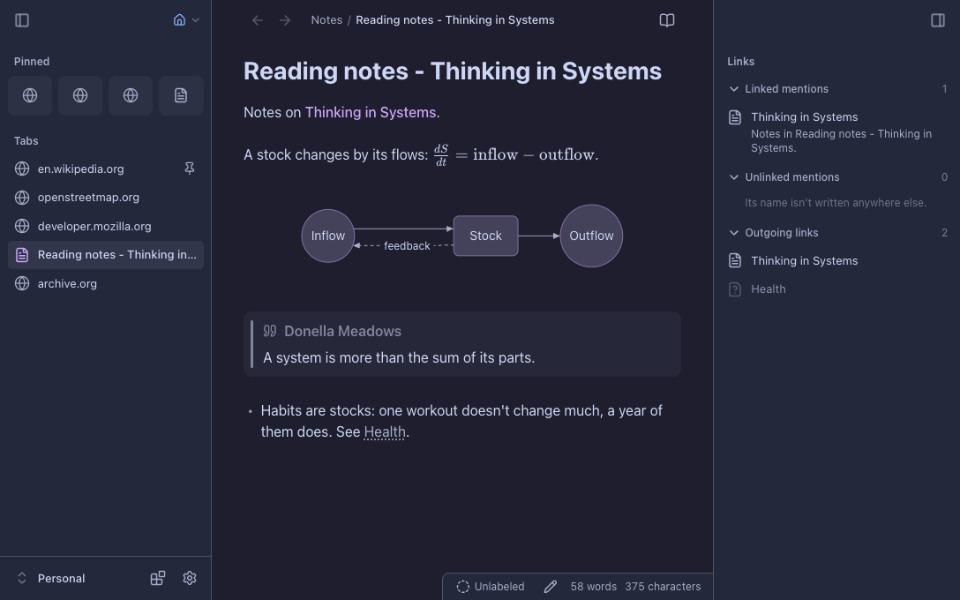
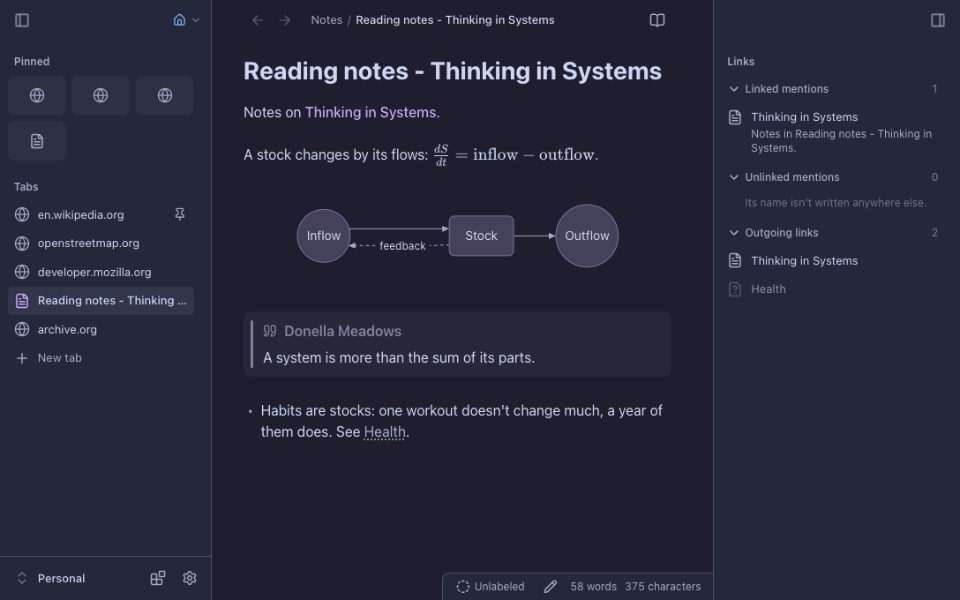
feat(tabs): a new tab row ends the tab list

diff --git a/web/src/components/Sidebar.tsx b/web/src/components/Sidebar.tsx
@@ -108,7 +108,7 @@ export function SidebarPanels({ head, side = "left", ...ctx }: SidebarCtx & { he
     // One rhythm for every panel, whatever it draws: 1 unit under each (folded or not) and its heading's 2 above, so 3
     // units between any two panels; and the last one ends 2 units above the vault's bar.
     <SidebarSide.Provider value={side}>
-    <div ref={box} data-sidebar-body={side} data-scroll={own ? "panels" : "sidebar"}
+    <div ref={box} data-sidebar-body={side} data-scroll={own ? "panels" : "sidebar"} onDoubleClick={(e) => { const key = emptyRoomOf(e.target, box.current); panels.find((p) => p.key === key)?.panel.emptyDoubleClick?.() }}
       className={cn("relative flex min-h-0 flex-1 flex-col pb-1", own ? "overflow-x-hidden overflow-y-auto [scrollbar-width:thin]" : "overflow-y-auto overscroll-contain [scrollbar-width:thin]",
         making && "[&>:not([data-slide])]:invisible")}>
       {panels.length ? panels.map((p, i) => {
@@ -166,6 +166,14 @@ export function SidebarPanels({ head, side = "left", ...ctx }: SidebarCtx & { he
     </div>
     </SidebarSide.Provider>
   )
+}
+
+/** The open panel whose empty room `at` is (its key): its box's under what it draws, or the sidebar's under the last. */
+function emptyRoomOf(at: EventTarget, body: HTMLElement | null) {
+  if (!(at instanceof HTMLElement) || !body) return undefined
+  const el = at === body ? [...body.querySelectorAll<HTMLElement>(":scope > [data-panel]")].at(-1)
+    : at.matches("[data-panel], [data-panel-scroll]") ? at.closest<HTMLElement>("[data-panel]") : null
+  return el && !el.dataset.collapsed ? el.dataset.panel : undefined
 }
 
 /** A sidebar's toggle: click opens or folds it; a panel dropped on it goes to that sidebar,
@@ -394,7 +402,7 @@ export function SidebarTile({ icon: Icon, iconClassName, tint, badge, label, act
  *  `pl-1.5`, so its icon lines up with theirs. */
 export function SidebarSearch({ open }: SidebarCtx) {
   const side = useContext(SidebarSide)
-  const keys = useCommandKeys("switcher:open", true), first = firstKeys("switcher:open")
+  const keys = useCommandKeys("switcher:open", true)
   return (
     // The panel is this one control, so it's its own handle: drag it to move the panel, click it to search.
     <button type="button" data-sidebar-search data-panel-handle={open ? "" : undefined} data-heading="Search" onClick={() => runCommandById("switcher:open")} data-tip={open ? undefined : `Search${keys}`} data-tip-side={side === "right" ? "left" : "right"} aria-label="Search"
@@ -405,13 +413,23 @@ export function SidebarSearch({ open }: SidebarCtx) {
       <Search className="size-4 shrink-0" strokeWidth={2.25} />
       {/* In the rail only the icon: the label and keycaps would make the rail wider than itself (a scrollbar). */}
       {open && <span className="flex-1 text-left">Search</span>}
-      {/* Shortcut keycaps, only on hover or keyboard focus. */}
-      {open && first && <span aria-hidden className="flex gap-1 opacity-0 transition-opacity duration-150 group-hover:opacity-100 group-focus-visible:opacity-100">
-        {keyCaps(first).map((k, i) => (
-          <kbd key={i} className="grid h-5 min-w-5 place-items-center rounded-[4px] border-[0.5px] border-border bg-foreground/[0.06] px-1 font-keys text-[11px] leading-none text-muted-foreground">{k}</kbd>
-        ))}
-      </span>}
+      {open && <RowKeys id="switcher:open" className="group-hover:opacity-100 group-focus-visible:opacity-100" />}
     </button>
+  )
+}
+
+/** A command's keycaps at a sidebar row's end, shown on hover or keyboard focus (`className` says the row's group):
+ *  the search field's ⌘O, the Tabs panel's ⌘T. Nothing while the command has no keys here. */
+export function RowKeys({ id, className }: { id: string; className?: string }) {
+  useCommandKeys(id)
+  const first = firstKeys(id)
+  if (!first) return null
+  return (
+    <span aria-hidden className={cn("flex shrink-0 gap-1 opacity-0 transition-opacity duration-150", className)}>
+      {keyCaps(first).map((k, i) => (
+        <kbd key={i} className="grid h-5 min-w-5 place-items-center rounded-[4px] border-[0.5px] border-border bg-foreground/[0.06] px-1 font-keys text-[11px] leading-none text-muted-foreground">{k}</kbd>
+      ))}
+    </span>
   )
 }
 

diff --git a/web/src/core/workspace.ts b/web/src/core/workspace.ts
@@ -221,6 +221,16 @@ function switchTo(gid: string, t: Tab, from?: string) {
   set(isBlank(cur) && cur.id !== t.id ? { ...ws, root: dropBlank(ws.root, cur.id, isDesktop()) } : ws)
 }
 
+/** Where the tabs made now go in their pane: beside the active tab, or at its end (`newTabsAt`). */
+let placing: "end" | undefined
+/** Runs `fn` with the tabs it makes in a pane put at its end, in no tab group, instead of beside the active tab: the
+ *  Tabs panel's New tab row, whose place the new tab takes. */
+export function newTabsAt<T>(at: "end" | undefined, fn: () => T): T {
+  const was = placing
+  placing = at
+  try { return fn() } finally { placing = was }
+}
+
 /** Go somewhere: an open tab that has it, else the current tab when it shows the same sort of thing (or nothing), else a
  *  new tab beside it, so a person opened from People opens beside it and Back returns there. Blank tabs are never kept. */
 export function go(to: string, newTab = false, push = true) {
@@ -232,7 +242,7 @@ export function go(to: string, newTab = false, push = true) {
   // entry would lose that place, and Back would skip it).
   if (open && (!newTab || isBlank(cur))) { switchTo(open.g.id, open.t, open.t.id === cur.id ? undefined : from); return show(to, push && !isDesktop() && open.t.id !== cur.id && !isBlank(cur)) }
   // Opened by another tab (its opener): beside that one, in its pane and its tab group, as a browser opens a link.
-  const by = isBlank(cur) ? null : besideOf(to)
+  const by = isBlank(cur) || placing ? null : besideOf(to)
   const at = by && by !== cur.to ? findOpen(by) : null
   if (at) {
     set(withGroup(at.g.id, (g) => withTabAfter(g, at.t.id, to), { focus: at.g.id }))
@@ -263,10 +273,10 @@ export function openBehind(to: string) {
 }
 
 /** A group with a new tab showing `to` right after tab `after`, active (`from`: the tab it was opened from, Tab.from),
- *  in `after`'s tab group, as a browser's link opened from a grouped tab is. */
+ *  in `after`'s tab group, as a browser's link opened from a grouped tab is (or at its end: `newTabsAt`). */
 function withTabAfter(g: Group, after: string, to: string, from?: string): Group {
-  const id = newId(), at = g.tabs.findIndex((t) => t.id === after) + 1
-  const set = g.tabs[at - 1]?.set
+  const id = newId(), at = placing === "end" ? g.tabs.length : g.tabs.findIndex((t) => t.id === after) + 1
+  const set = placing === "end" ? undefined : g.tabs[at - 1]?.set
   const tab: Tab = { id, to, ...(from ? { from } : {}), ...(set ? { set } : {}) }
   return { ...g, tabs: [...g.tabs.slice(0, at), tab, ...g.tabs.slice(at)], active: id }
 }
@@ -610,8 +620,8 @@ let toRename: string | null = null
 export function askRename(path: string) { toRename = path; dispatchEvent(new Event("vaultite:rename")) }
 export const takeRename = (path: string) => { if (toRename !== path) return false; toRename = null; return true }
 
-/** A new tab, in the focused group (or `gid`'s: its tab bar's +), next to the active one: a blank tab, one per pane
- *  (the blank tab it has already moves next to the active one instead; none, or the active one itself: nothing moves). */
+/** A new tab, in the focused group (or `gid`'s: its tab bar's +), next to the active one (or at the end: `newTabsAt`): a
+ *  blank tab, one per pane (the blank tab it has already moves there instead; the active one itself: nothing moves). */
 export function newTab(gid = state.focus) {
   // (asked for before the vault arrived, on a first visit's blank tab: it stays one, not filled with the home page)
   unsaved = false
@@ -619,7 +629,7 @@ export function newTab(gid = state.focus) {
     if (isBlank(shownTab(g))) return g
     const had = g.tabs.find(isBlank), blank = had ? inSet(had, undefined) : { id: newId(), to: "new" }
     const tabs = g.tabs.filter((t) => t.id !== blank.id)
-    const at = tabs.findIndex((t) => t.id === g.active) + 1
+    const at = placing === "end" ? tabs.length : tabs.findIndex((t) => t.id === g.active) + 1
     return { ...g, tabs: [...tabs.slice(0, at), blank, ...tabs.slice(at)], active: blank.id }
   }, { focus: gid }))
   show("new", true)

diff --git a/plugins/core/tabs/index.tsx b/plugins/core/tabs/index.tsx
@@ -2,7 +2,7 @@ import { useEffect, useId, useRef, useState } from "react"
 import { Archive, ChevronDown, Layers2, MonitorSmartphone, Pin, Plus, X } from "lucide-react"
 import {
   edgeScroller, canDropTab, closeTab, closeTabMoving, cn, colorVar, commandItems, definePlugin, DEVICE, dragTab, dropTab, fmtAgo, foldSetMoving, HeadingButton, isPopout, menuFor, openNewTab,
-  notifyError, openView, panesOf, pastEnd, put, rowMenu, selectClick, selectedAttr, selectTab, setMenu, setName, SetLabel, SidebarHeading,
+  notifyError, openView, panesOf, pastEnd, put, rowMenu, RowKeys, selectClick, selectedAttr, selectTab, setMenu, setName, SetLabel, SidebarHeading,
   SidebarRow, startDrag, tabMenuOf, tabPreview, tabPreviewOrder, TABS, tabSlot, tabsMenu, useDrag, useDropHit, useDropTarget, useGrowIn, useSelectable, useSelected, useSlide, useTabLabels, useTabLayout,
   INCOMING, setsAsDrawn,
   type DragItem, type SidebarCtx, type Store, type Tab, type TabDrop, type TabGroup, type TabInfo, type TabSet,
@@ -75,11 +75,11 @@ function SetRow({ s, n, rail, target }: { s: TabSet; n: number; rail?: Rail; tar
 }
 
 const LIST = "tabs:list"
-/** The last pane's box when (x, y) is just under its tabs, which a drop puts at its end. */
+/** The last pane's box when (x, y) is just under its tabs or on the New tab row, which a drop puts at its end. */
 function endOf(root: HTMLElement, x: number, y: number, el: Element | null) {
   const last = root.querySelector<HTMLElement>("[data-tabs-pane]:last-child")
   const row = last && [...last.querySelectorAll("[data-open-tab], [data-set-row]")].at(-1)
-  return row && pastEnd(root, row, x, y, el) ? last : null
+  return row && (el?.closest("[data-new-tab-row]") || pastEnd(root, row, x, y, el)) ? last : null
 }
 
 /** Every pane's tabs, in the panes' order, each tab group a row with its tabs under it; with more than one pane, each
@@ -225,15 +225,24 @@ function OtherDevices({ store }: { store: Store }) {
   )
 }
 
+/** The tabs' last row, as a browser's vertical tabs end: a new tab in the focused pane, at its end, so it takes this
+ *  row's place (⌘T opens one beside the active tab). */
+function NewTabRow() {
+  return (
+    <SidebarRow data-new-tab-row icon={Plus} label="New tab" open className="mt-px text-muted-foreground" onClick={() => openNewTab({ at: "end" })}>
+      <RowKeys id="tab:new" className="group-hover/row:opacity-100 group-focus-visible/row:opacity-100" />
+    </SidebarRow>
+  )
+}
+
 function TabsPanel({ store, open }: SidebarCtx) {
   if (!open) return null
   return (
     // (a right-click anywhere but a tab, a group or a device has the panel's menu: `menu`)
     <div className="flex shrink-0 flex-col" data-tabs-panel>
-      <SidebarHeading title="Tabs" open={open}>
-        <HeadingButton icon={Plus} label="New tab" onClick={() => openNewTab()} />
-      </SidebarHeading>
+      <SidebarHeading title="Tabs" open={open} />
       <TabRows store={store} />
+      <NewTabRow />
       <OtherDevices store={store} />
     </div>
   )
@@ -247,7 +256,7 @@ export default definePlugin({
   sidebar: {
     tabs: {
       title: "Tabs", names: ["tabs", "open tabs", "tab list", "vertical tabs"], heading: false, sort: 5, hidden: true, tabList: true,
-      view: "tabs", flyout: { icon: Layers2 }, render: (ctx) => <TabsPanel {...ctx} />,
+      view: "tabs", flyout: { icon: Layers2 }, render: (ctx) => <TabsPanel {...ctx} />, emptyDoubleClick: () => openNewTab({ at: "end" }),
       // (Show tabs on top, the way back to the tab bar, and other devices' tabs on or off)
       menu: () => [...commandItems("tab:sidebar"), othersItem(settings.get().other_devices !== false),
         { label: "Show all devices", icon: MonitorSmartphone, run: () => openView("devices", { newTab: true }) },

diff --git a/web/src/components/SearchPalette.tsx b/web/src/components/SearchPalette.tsx
@@ -5,7 +5,8 @@ import { Search, TextSearch } from "lucide-react"
 import { getStore, type Store } from "@/core/data"
 import { get } from "@/core/http"
 import { cleanName, createNamed, folderOf, openFile, openNew, openView, stem } from "@/core/files"
-import { currentFile } from "@/core/workspace"
+import { currentFile, newTabsAt } from "@/core/workspace"
+import { launcherAt, launcherClosed } from "@/core/launcher"
 import { newNoteFolder } from "@/core/conventions"
 import { snippet } from "@/core/links"
 import { openDetail } from "@/core/nav"
@@ -43,6 +44,9 @@ export function SearchPalette({ store, onClose, launcher = false }: { store: Sto
   launcher?: boolean }) {
   const docs = useSearchIndex(store)
   const { query: q, setQuery: setQ, select, picked } = useFinderQuery()
+  // (opened by the Tabs panel's New tab row: its picks go at the pane's end, where the row is)
+  const [at] = useState(() => (launcher ? launcherAt() : undefined))
+  useEffect(() => (launcher ? launcherClosed : undefined), [launcher])
   const { node, error } = useMemo(() => readQuery(q), [q])
   const plain = !node || isPlain(node)
   const opened = useRecentFiles()
@@ -94,10 +98,12 @@ export function SearchPalette({ store, onClose, launcher = false }: { store: Sto
     const newTab = launcher || mod
     picked()
     onClose()
-    if (h.run) setTimeout(() => h.run!(newTab), 0)
-    else if (h.to) setTimeout(() => openView(h.to!, { newTab: true }), 0)
-    else if (h.file) setTimeout(() => openFile(h.file!, { newTab }), 0)
-    else if (h.detail) setTimeout(() => openDetail(h.detail!), 0)
+    setTimeout(() => newTabsAt(at, () => {
+      if (h.run) h.run(newTab)
+      else if (h.to) openView(h.to, { newTab: true })
+      else if (h.file) openFile(h.file, { newTab })
+      else if (h.detail) openDetail(h.detail)
+    }), 0)
   }
   // ⇧Enter: a note named what was typed, where every new note goes (newNoteFolder).
   const create = async (newTab: boolean) => {
@@ -105,7 +111,7 @@ export function SearchPalette({ store, onClose, launcher = false }: { store: Sto
     picked()
     onClose()
     const f = await createNamed(newNoteFolder(getStore(), currentFile()), q)
-    if (f) openNew(f.path, { newTab: launcher || newTab })
+    if (f) newTabsAt(at, () => openNew(f.path, { newTab: launcher || newTab }))
   }
 
   return (

diff --git a/web/src/core/launcher.ts b/web/src/core/launcher.ts
@@ -4,7 +4,7 @@ import { runCommandById } from "@/core/commands"
 import { openView } from "@/core/files"
 import { active, viewFor } from "@/core/plugins"
 import { getPrefs, setPrefs } from "@/core/prefs"
-import { focusGroup, newTab } from "@/core/workspace"
+import { focusGroup, newTab, newTabsAt } from "@/core/workspace"
 import { newTabInSet, setById } from "@/core/tabsets"
 
 /** Whether a new tab opens the quick switcher instead of a tab. */
@@ -29,13 +29,19 @@ function viewHere(opens: string | null) {
   return v?.on && v.def.asNewTab?.here?.() !== false ? opens : null
 }
 
-/** A new tab in the focused pane (or `gid`'s: its tab bar's +; or at the end of tab group `set`, a phone's open one): a
- *  blank one, or what newtab.json's `opens` says. */
-export function openNewTab(gid?: string, set?: string) {
+/** Where the quick switcher, opened as a new tab, puts what's picked (`newTabsAt`): set as it opens, gone as it closes. */
+let launchAt: "end" | undefined
+export const launcherAt = () => launchAt
+export const launcherClosed = () => { launchAt = undefined }
+
+/** A new tab in the focused pane (or `pane`'s: its tab bar's +; or at the end of tab group `set`, a phone's open one): a
+ *  blank one, or what newtab.json's `opens` says. Beside the active tab, or `at` the pane's end (the Tabs panel's row). */
+export function openNewTab({ pane, set, at }: { pane?: string; set?: string; at?: "end" } = {}) {
   const { opens } = getPrefs().newTab, view = viewHere(opens)
-  if (set) gid = setById(set)?.g.id
-  if (opens !== "switcher" && !view) return set && gid ? newTabInSet(set) : newTab(gid)
-  if (gid) focusGroup(gid)
-  if (view) openView(view, { another: true })
-  else if (!runCommandById("switcher:new-tab")) newTab(gid)
+  if (set) pane = setById(set)?.g.id
+  if (opens !== "switcher" && !view) return set && pane ? newTabInSet(set) : newTabsAt(at, () => newTab(pane))
+  if (pane) focusGroup(pane)
+  if (view) return newTabsAt(at, () => openView(view, { another: true }))
+  launchAt = at
+  if (!runCommandById("switcher:new-tab")) { launchAt = undefined; newTabsAt(at, () => newTab(pane)) }
 }

diff --git a/web/src/components/Tabs.tsx b/web/src/components/Tabs.tsx
@@ -196,7 +196,7 @@ function barItems(group: Group): MenuItem[] {
 /** Right-click on a tab bar's empty space. */
 function barMenu(group: Group): MenuItem[] {
   return [
-    { label: "New tab", icon: Plus, run: () => openNewTab(group.id) },
+    { label: "New tab", icon: Plus, run: () => openNewTab({ pane: group.id }) },
     ...commandItems("tab:reopen"),
     ...(hasMainWindow() ? [{ label: "Move all to main window", icon: AppWindow, run: () => moveToMain(group.tabs.map((t) => t.id)) }] : []),
     ...barItems(group),
@@ -544,7 +544,7 @@ export function TabBar({ group, focused, info, alone }: { group: Group; focused:
           return chip ? [chip, item] : item
         })}
         {/* Right after the last tab (not pinned to the bar's end). */}
-        <button type="button" onClick={() => openNewTab(group.id)} aria-label="New tab" data-tip="New tab" data-slide="new" data-slide-fixed
+        <button type="button" onClick={() => openNewTab({ pane: group.id })} aria-label="New tab" data-tip="New tab" data-slide="new" data-slide-fixed
           className="grid size-7 shrink-0 cursor-pointer place-items-center rounded-[5px] text-muted-foreground hover:bg-foreground/[0.06] hover:text-foreground">
           <Plus className="size-4" strokeWidth={2} />
         </button>

diff --git a/web/src/core/phoneTabs.ts b/web/src/core/phoneTabs.ts
@@ -32,10 +32,10 @@ export function pickTab(id: string) {
 /** A new tab (the bar's +, the tab list's: in tab group `set` when one is open), grown out of the button pressed. */
 export async function newPhoneTab(button: Element | null, set?: string) {
   // (the switcher picks what it shows: nothing to grow till then)
-  if (opensSwitcher()) return afterSheets(() => openNewTab(undefined, set))
+  if (opensSwitcher()) return afterSheets(() => openNewTab({ set }))
   await shootTab()
   const t = activeTab()
-  zoomNew(button, () => afterSheets(() => openNewTab(undefined, set)), shotOf(t.id, t.to))
+  zoomNew(button, () => afterSheets(() => openNewTab({ set })), shotOf(t.id, t.to))
 }
 
 /** The line under a tab's name in the switcher: where the file is, or what kind of tab it is. */

diff --git a/web/src/api.ts b/web/src/api.ts
@@ -194,7 +194,7 @@ export { Resizer } from "@/components/Resizer"
 export { haptic, type Haptic } from "@/core/haptics"
 // Phones: keys above the on-screen keyboard, and the part of the window it leaves.
 export { KeyBar, keyboardUp, useVisibleArea, type BarKey } from "@/components/KeyBar"
-export { FilesPanel, PanelFold, panelMenu, SidebarHeading, SidebarRow, SidebarSearch, SidebarTile } from "@/components/Sidebar"
+export { FilesPanel, PanelFold, panelMenu, RowKeys, SidebarHeading, SidebarRow, SidebarSearch, SidebarTile } from "@/components/Sidebar"
 export { ActionButtons, AddButton } from "@/components/NewTab"
 // The core's pages that panels open as tabs: the file tree (view:files) and the search page.
 export { Files as FilesPage } from "@/pages/Files"

diff --git a/web/src/core/define.ts b/web/src/core/define.ts
@@ -332,6 +332,9 @@ export type SidebarPanel = {
   dockable?: true
   /** It lists the open tabs (Tabs): Show tabs in the sidebar puts it at the top of the left sidebar, the tab bar off. */
   tabList?: true
+  /** A double-click on its empty room: in its box under what it draws, or under it as the sidebar's last panel (Tabs: a
+   *  new tab, as under a browser's vertical tabs). */
+  emptyDoubleClick?: () => void
   /** Other names people call it by ("file tree", "explorer"), for `vau panels`; core/appsource.ts reads them from the
    *  source, so keep them a plain list of strings. */
   names?: string[]

diff --git a/core/docs/plugin-api-names.md b/core/docs/plugin-api-names.md
@@ -316,7 +316,7 @@ Every name a plugin imports, with its parameters and what it is (tools/plugin_ap
 - `namedIcon(name?)`: An icon by its name (`dumbbell`): one of ICONS, one a plugin adds, any other of Lucide's, or an emoji; null for none.
 - `NewFile`: A kind of file it makes, in the New submenu: `make` writes one in `folder` ("" the top) and answers its path, which opens with its name ready to type.
 - `newNoteFolder(s, from?)`: The folder every new note goes in ("" = the top), unless the vault says otherwise.
-- `newTab(gid?)`: A new tab, in the focused group (or `gid`'s: its tab bar's +), next to the active one: a blank tab, one per pane (the blank tab it has already moves next to the active one instead; none, or the…
+- `newTab(gid?)`: A new tab, in the focused group (or `gid`'s: its tab bar's +), next to the active one (or at the end: `newTabsAt`): a blank tab, one per pane (the blank tab it has already moves there instead; the…
 - `NewTabCtx`
 - `NewTabSection`: A section of a blank tab's page, among the app's (Buttons 10, Recently opened here 20, Recently changed 30), in newtab.json's order, else by `sort`.
 - `NoteBody({ store, path, body, fm, className })`: `path`'s body (no frontmatter), drawn read-only.
@@ -359,7 +359,7 @@ Every name a plugin imports, with its parameters and what it is (tools/plugin_ap
 - `openItem(newTab, right?)`: "Open in new tab", with Open to the right in its submenu where there are splits (desktop).
 - `openMenu(at, items, up?, again?)`
 - `openNew(path, opts?)`: Open a file just made, in editing with its name ready to type.
-- `openNewTab(gid?, set?)`: A new tab in the focused pane (or `gid`'s: its tab bar's +; or at the end of tab group `set`, a phone's open one): a blank one, or what newtab.json's `opens` says.
+- `openNewTab({ pane, set, at }?)`: A new tab in the focused pane (or `pane`'s: its tab bar's +; or at the end of tab group `set`, a phone's open one): a blank one, or what newtab.json's `opens` says.
 - `openPermissions`: Settings > Permissions, what macOS lets the app do: null where there's none (a browser, another system, an older build).
 - `openPlace(p, opts?)`: Open what a place says.
 - `openPluginSettings(id, key?)`: Open a plugin's settings sheet (over the sheet that's open, if any); `key`: the setting to go to (its row's `data-setting`), scrolled to and flashed once the sheet has drawn it.
@@ -457,6 +457,7 @@ Every name a plugin imports, with its parameters and what it is (tools/plugin_ap
 - `Ring({ value, goal, color, size })`: Progress ring for "x of goal this week".
 - `Row({ title, meta, right, lead, className, onOpen, href, wrap, … })`: A list row: title (two lines at most) and meta line; `onOpen` makes it a disclosure row, `href` a new-tab link.
 - `rowFileMenu(path)`: A file listed in a row (a recent file, a query's result): Open in new tab (to the right too, on desktop), then its menu.
+- `RowKeys({ id, className })`: A command's keycaps at a sidebar row's end, shown on hover or keyboard focus (`className` says the row's group): the search field's ⌘O, the Tabs panel's ⌘T.
 - `rowMenu(list, key, own)`: A row's menu: the list's menu for the selection when the row is in one, else its own.
 - `runCommandById(id)`: Run a registered command by its id ("switcher:open"), if it's there and available now (`when`: editor:undo only while the keyboard isn't in a text field); whether it ran.
 - `runCommandNamed(text)`: Run a command that's available now by its id ("switcher:open") or its name as the palette lists it ("Open quick switcher", any case): false if there's none (Vim's :cmd).

diff --git a/plugins/core/tabs/AGENTS.md b/plugins/core/tabs/AGENTS.md
@@ -2,9 +2,11 @@
 The Tabs panel lists the open tabs pane by pane, so the tab bar can be off: vertical tabs. One switch moves the tabs
 between the two (the palette's Show tabs in the sidebar / Show tabs on top, or right-click the tab bar or the panel):
 in the sidebar, appearance `tabBar` is false and `tabs:tabs` is at the top of the left sidebar (sidebars.json, or the
-workspace's `sidebars`); on top, `tabBar` is true and the panel is hidden. Under the tabs, what the user's other devices
-have open (`other_devices`: those open now or used this week), from `.vaultite/plugins/tabs/device-<id>.json`, one per
-app or browser (`label`: the user's name for it). A browser driven by automation isn't a device.
+workspace's `sidebars`); on top, `tabBar` is true and the panel is hidden. The tabs end in a New tab row: a new tab at
+the end of the focused pane, in its place (double-clicking under the list too; ⌘T opens one beside the active tab).
+Under them, what the user's other devices have open (`other_devices`: those open now or used this week), from
+`.vaultite/plugins/tabs/device-<id>.json`, one per app or browser (`label`: the user's name for it). A browser driven by
+automation isn't a device.
 
 **Devices** (`vau tabs devices`; the Devices view, also in Machines): each one, open now or when it was last used, with
 its tabs. Which are open isn't kept in a file: each server knows its own windows, and asks the other machines for theirs.

diff --git a/bundles/browser/Guides/How Browser works.md b/bundles/browser/Guides/How Browser works.md
@@ -6,7 +6,7 @@ kind: note
 Browser makes the app a web browser first, with your notes one move away.
 
 ## Where things are
-- **⌘T** (or the + on Tabs) opens a bar: type an address, words to search the web, or the name of a note, a tab or a bookmark. Esc and nothing is opened.
+- **⌘T** (or New tab, the last row of Tabs) opens a bar: type an address, words to search the web, or the name of a note, a tab or a bookmark. Esc and nothing is opened.
 - **Your favourites** are the tiles at the top of the left sidebar: pages you keep, web pages or notes. Right-click a tab, Pin, to add its page.
 - **Tabs** are under them, top to bottom. Pinned tabs (right-click a tab, Pin tab) stay at the top. The others are today's: one you haven't looked at for 12 hours is archived, so the list stays short. Find it again in ⌘T, or in Archived tabs.
 - **Spaces** are the numbers at the top of the sidebar: one for each part of your life, with its own tabs and favourites. Switch with ⌃1 to ⌃5 or a two-finger swipe over the sidebar; right-click one to give it an icon, a colour and a container.
